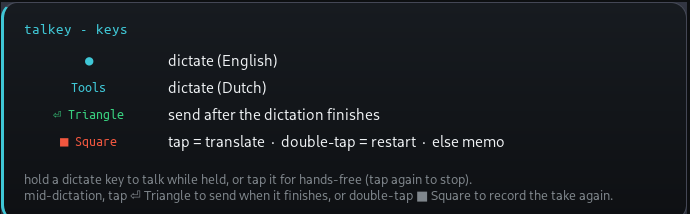
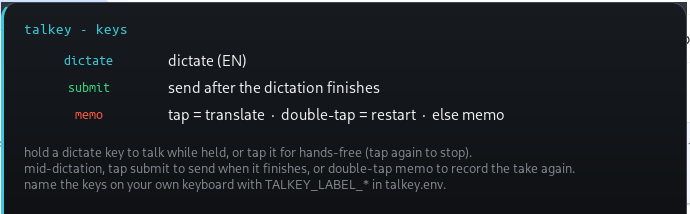
stop assuming a second language, or a keyboard with shapes on it
Two of the author's choices were sitting in the defaults as though they were
everyone's.

Dutch was the second dictation language. It was also named twice - once in the
key binding as an env prefix, once again in the cheat sheet labels - so changing
it meant knowing about both. There is now one place: TALKEY_LANG2 in talkey.env,
read by a `talkey dictate-alt` mode that is otherwise the same dictation. The
binding files no longer mention a language at all. With none set, the key says
so rather than quietly dictating in the wrong one, and the cheat sheet drops the
row instead of showing a language you do not speak.

Language names on the sheet are derived from the codes you dictate in (en reads
as EN), so no language is spelled out as the assumed one.

The key labels were a Keychron K10's media row - a circle, a square, a triangle.
Most keyboards have none of those, so pointing at them is wrong for nearly
everyone. They now name the role (dictate, submit, memo) and the sheet says how
to rename them. TALKEY_LABEL_* still takes any glyph you like, and the example
config keeps the Keychron set for boards that have it.

Note English stays as the translate target: whisper's translate task only ever
outputs English. That is the model, not a preference.

diff --git a/README.md b/README.md
@@ -44,14 +44,15 @@ issue descriptions. The things that are slow to type and easy to say.
 ## What the keys do
 
 **Dictate** - hold to talk, release to type. Tap instead of holding and it goes
-hands-free: tap once to start, again to stop. Bind a second key for a second
-language.
+hands-free: tap once to start, again to stop. If you work in two languages, set
+`TALKEY_LANG2` and bind a second key to `talkey dictate-alt` for it.
 
 **Memo / translate** - on its own, hold to record and release to play the clip
 straight back, so you can hear whether that came out right. During a dictation
-the same key toggles **translate to English** for the clip: dictate in Dutch,
-tap it, and English lands in your window. whisper's translate task only ever
-outputs English, so it is *your language* → English, not the other way. Tap it
+the same key toggles **translate to English** for the clip: dictate in whatever
+language you speak, tap it, and English lands in your window. whisper's
+translate task only ever outputs English, so this is *your language* to English
+and not the reverse - a limit of the model, not a setting. Tap it
 twice quickly during a dictation and it **restarts** instead: the take so far is
 thrown away and recording begins again, without letting go of the dictate key.
 
@@ -162,7 +163,7 @@ it. Only `TALKEY_*` names are read. Anything already set in the environment wins
 over the file, so a per-binding override still works:
 
 ```
-bindcode $key_dictate_nl exec --no-startup-id env TALKEY_LANG=nl talkey dictate press
+bindcode $key_dictate exec --no-startup-id env TALKEY_LANG=de talkey dictate press
 ```
 
 Key bindings themselves live in your i3 include, as variables at the top of the
@@ -172,7 +173,8 @@ The most useful settings:
 
 | Setting | Default | What it does |
 |---|---|---|
-| `TALKEY_LANG` | `en` | whisper language code |
+| `TALKEY_LANG` | `en` | the language you dictate in |
+| `TALKEY_LANG2` | *(unset)* | a second language, for `talkey dictate-alt` |
 | `TALKEY_SOURCE` | `default` | microphone; see `pactl list sources short` |
 | `TALKEY_MODEL_NAME` | `large-v3-turbo` | which model the server loads |
 | `TALKEY_HUD_MONITOR` | *(primary)* | which display the HUD opens on, e.g. `DP-1` |
